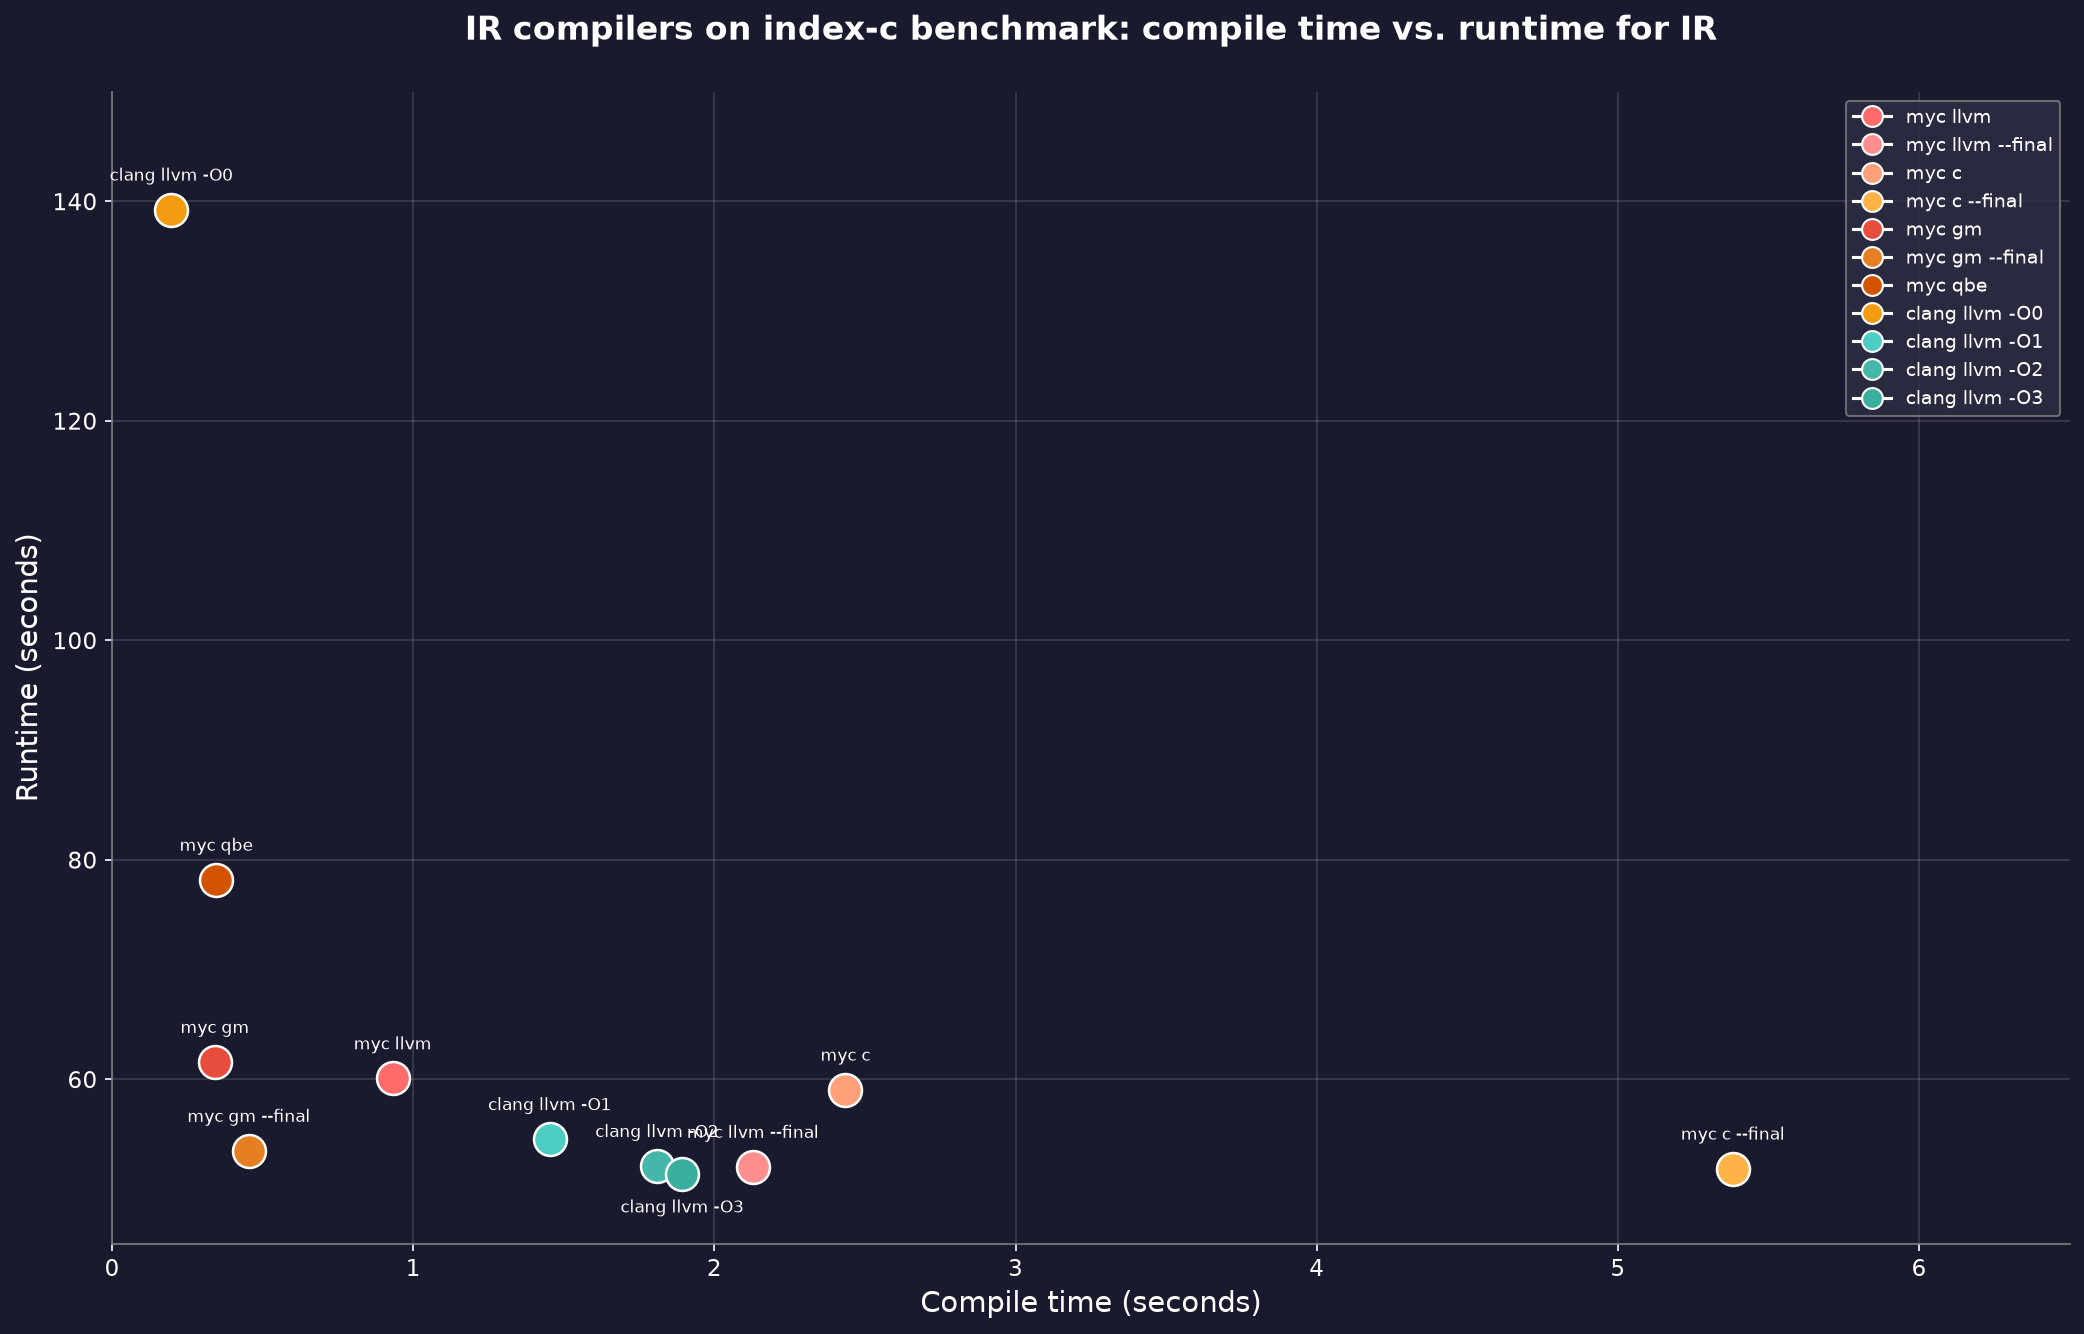
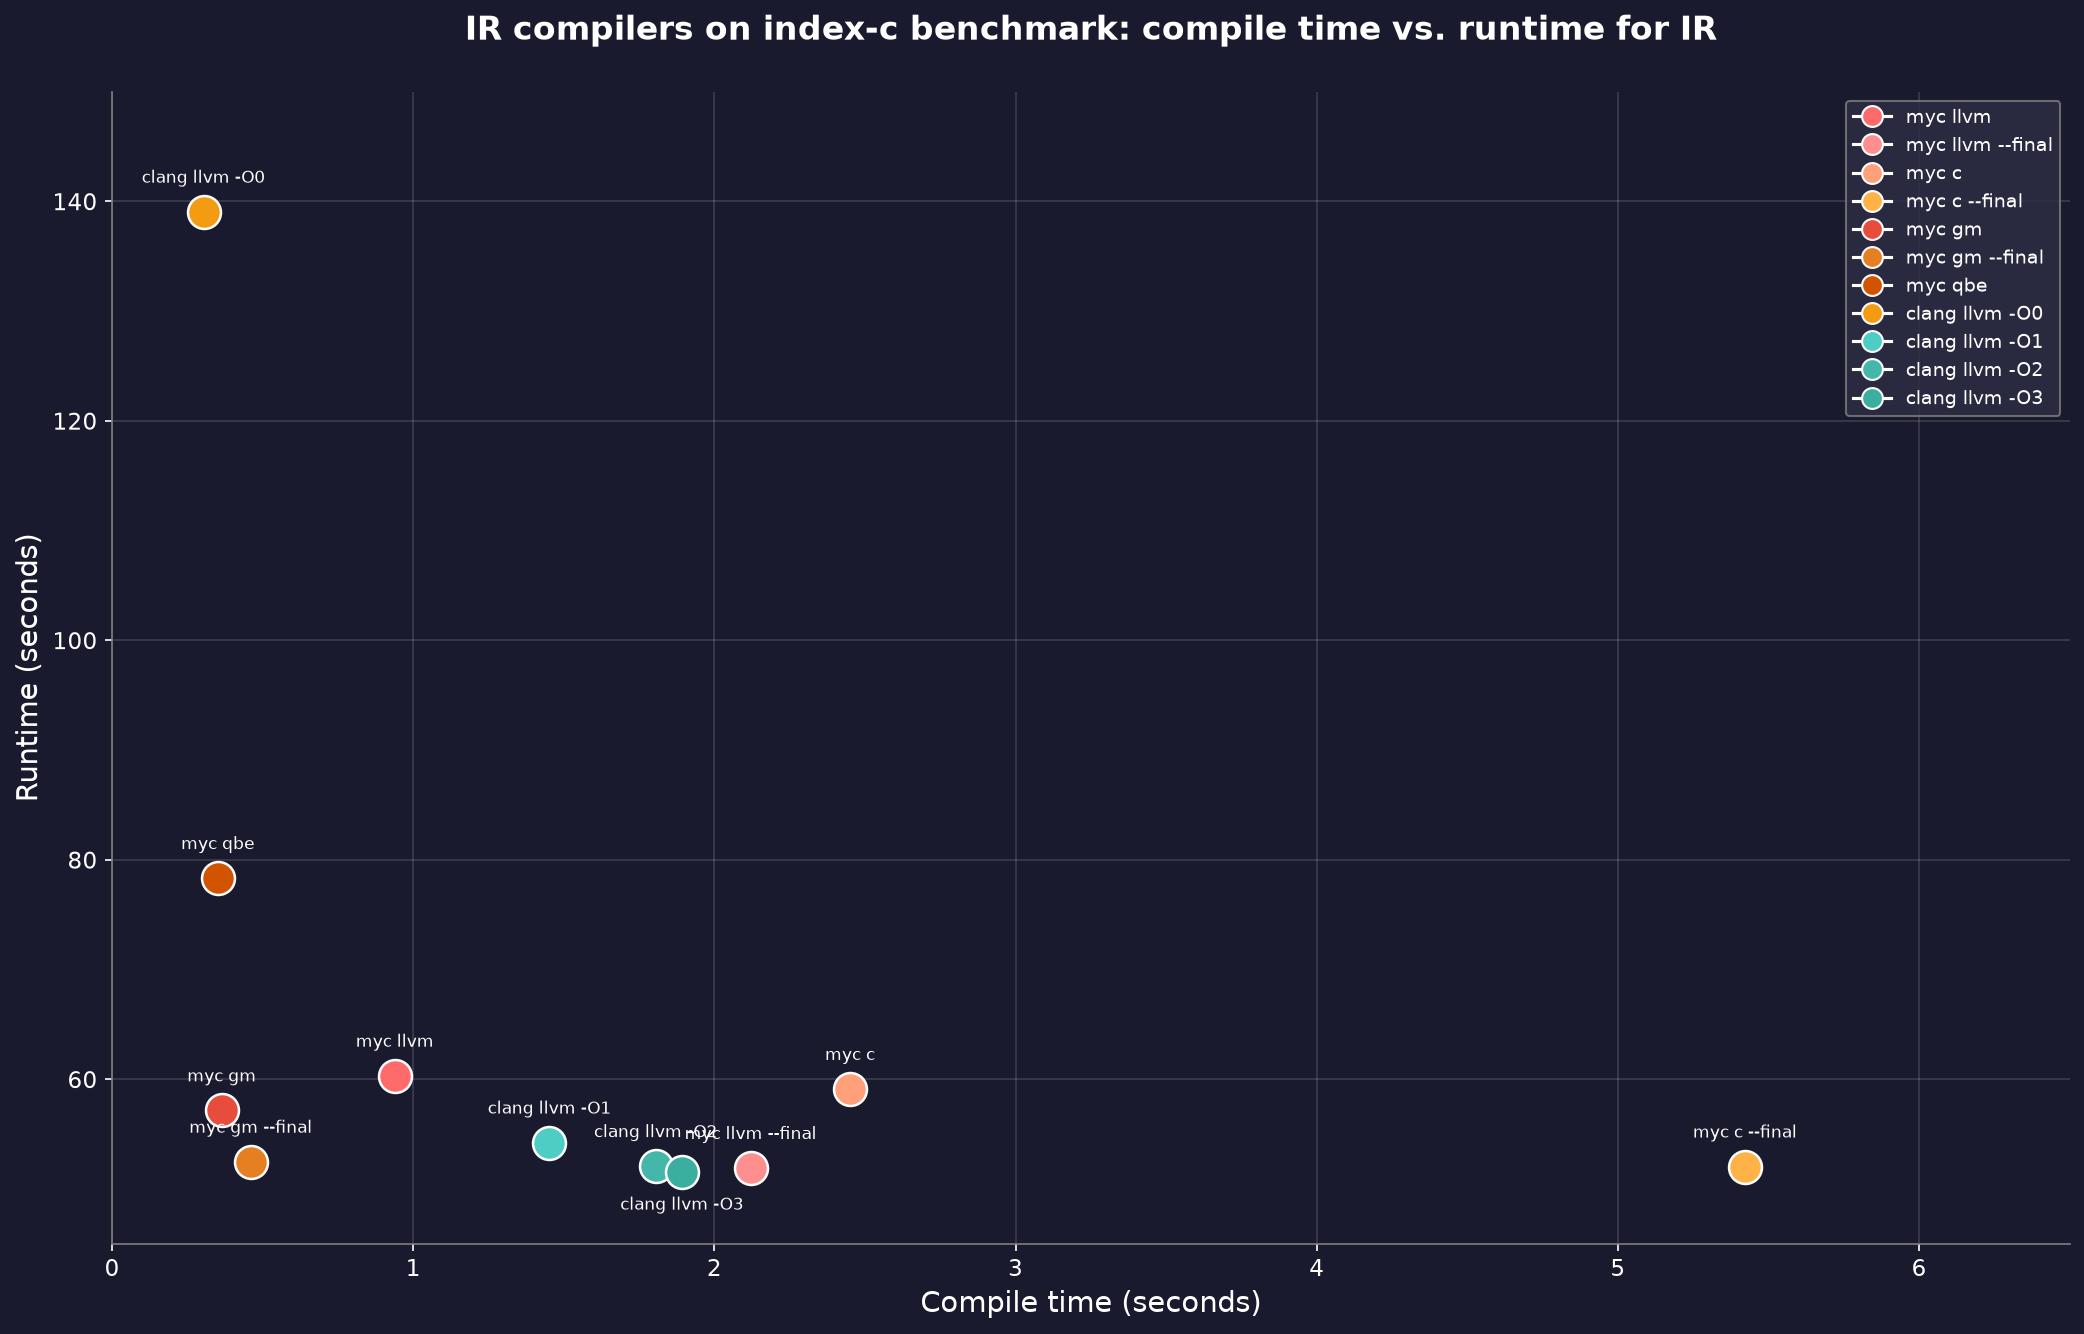
update results

diff --git a/plot1.py b/plot1.py
@@ -4,22 +4,22 @@ from matplotlib.lines import Line2D
 markdown = """
 | Compiler | Backend | Flags | Compile (s) | Run (s) |
 |----------|---------|-------|-------------|---------|
-| mycc | llvm |  | 1.3861 | 60.1767 |
-| mycc | llvm | --final | 2.5244 | 51.9228 |
-| mycc | c |  | 2.8505 | 59.7757 |
-| mycc | c | --final | 5.8163 | 52.1159 |
-| mycc | gm |  | 0.768 | 61.326 |
-| mycc | gm | --final | 0.8727 | 53.3361 |
-| mycc | qbe |  | 0.7656 | 78.2328 |
-| clang | llvm | -O0 | 0.3439 | 142.5666 |
-| clang | llvm | -O1 | 1.6629 | 53.9996 |
-| clang | llvm | -O2 | 2.0166 | 51.156 |
-| clang | llvm | -O3 | 2.0844 | 51.0058 |
-| gcc | - | -O0 | 0.8005 | 132.4786 |
-| gcc | - | -O1 | 1.8718 | 57.3093 |
-| gcc | - | -O2 | 3.6296 | 52.2206 |
-| gcc | - | -O3 | 4.7703 | 50.6755 |
-| cproc | qbe |  | 0.2044 | 88.8468 |
+| mycc | llvm |  | 1.5451 | 60.1436 |
+| mycc | llvm | --final | 2.5695 | 51.9172 |
+| mycc | c |  | 2.9886 | 59.2757 |
+| mycc | c | --final | 5.8647 | 52.2412 |
+| mycc | gm |  | 0.8156 | 57.2475 |
+| mycc | gm | --final | 0.8767 | 52.5471 |
+| mycc | qbe |  | 0.8204 | 78.4971 |
+| clang | llvm | -O0 | 0.4201 | 142.773 |
+| clang | llvm | -O1 | 1.6904 | 54.1242 |
+| clang | llvm | -O2 | 2.0602 | 51.0166 |
+| clang | llvm | -O3 | 2.085 | 51.5749 |
+| gcc | - | -O0 | 0.8041 | 132.5994 |
+| gcc | - | -O1 | 1.9168 | 57.5374 |
+| gcc | - | -O2 | 3.6483 | 52.2808 |
+| gcc | - | -O3 | 4.8191 | 50.6065 |
+| cproc | qbe |  | 0.2372 | 88.7688 |
 """
 
 lines = markdown.strip().split('\n')

diff --git a/plot2.py b/plot2.py
@@ -3,18 +3,18 @@ from matplotlib.lines import Line2D
 
 markdown = """
 | Compiler | Backend | Flags | Compile (s) | Run (s) |
-|----------|---------|-------|-------------|---------|--------|
-| myc | llvm |  | 0.932 | 60.0968 |
-| myc | llvm | --final | 2.1277 | 52.0302 |
-| myc | c |  | 2.4351 | 59.0626 |
-| myc | c | --final | 5.3817 | 51.8694 |
-| myc | gm |  | 0.3415 | 61.5946 |
-| myc | gm | --final | 0.4541 | 53.4905 |
-| myc | qbe |  | 0.3453 | 78.1928 |
-| clang | llvm | -O0 | 0.197 | 139.2588 |
-| clang | llvm | -O1 | 1.4534 | 54.5575 |
-| clang | llvm | -O2 | 1.8094 | 52.109 |
-| clang | llvm | -O3 | 1.8932 | 51.3404 |
+|----------|---------|-------|-------------|---------|
+| myc | llvm |  | 0.9388 | 60.3338 |
+| myc | llvm | --final | 2.1202 | 51.9244 |
+| myc | c |  | 2.4502 | 59.1295 |
+| myc | c | --final | 5.4218 | 52.0605 |
+| myc | gm |  | 0.3641 | 57.1806 |
+| myc | gm | --final | 0.4604 | 52.4984 |
+| myc | qbe |  | 0.3503 | 78.3457 |
+| clang | llvm | -O0 | 0.3036 | 139.0683 |
+| clang | llvm | -O1 | 1.4524 | 54.2433 |
+| clang | llvm | -O2 | 1.8051 | 52.0981 |
+| clang | llvm | -O3 | 1.8923 | 51.5936 |
 """
 
 lines = markdown.strip().split('\n')

diff --git a/3.brainfuck-compiler/run.rb b/3.brainfuck-compiler/run.rb
@@ -75,7 +75,7 @@ CFG = {
 	},
 	"gm": {
 		"ir": "lowir",
-		"compiler": "cppgm",
+		"compiler": "cppgm(-O3)",
 		"src": "mandel.lowir",
 		"cmd": "bash -c '#{GM} -O3 -c mandel.lowir -o mandel_gm.o; cc mandel_gm.o -o ./bin_bf_gm'",
 		"run": "./bin_bf_gm",

diff --git a/README.md b/README.md
@@ -17,6 +17,16 @@ Show versions:
 docker run --rm myc-benchmarks sh -c 'for t in clang gcc cproc qbe cppgm myc-llvm myc-qbe myc-c myc-gm; do printf "%s: " "$t"; command -v "$t" >/dev/null 2>&1 && { "$t" --version 2>&1 | head -n1 || "$t" -v 2>&1 | head -n1; } || echo "not found"; done'
 ```
 
+```
+clang: clang version 23.1.5
+gcc: gcc (GCC) 16.2.1 20260810
+cppgm: cppgm 0.9.6 (host configuration: g++)
+myc-llvm: myc 0.12.1-c154ee5 LLVM 23.1.5 (https://github.com/kostya/myc)
+myc-qbe: myc 0.12.1-c154ee5 QBE fab6d40 (https://github.com/kostya/myc)
+myc-c: myc 0.12.1-c154ee5 C(cc (GCC) 16.2.1 20260810) (https://github.com/kostya/myc)
+myc-gm: myc 0.12.1-c154ee5 GM v0.9.6 (https://github.com/kostya/myc)
+```
+
 # 1. C compilers on index-c: (clang, gcc, mycc, cproc)
 
 Running on [index-c](https://github.com/kostya/index-c) benchmark.
@@ -29,22 +39,22 @@ ruby run.rb
 
 | Compiler | Backend | Flags | Compile (s) | Run (s) |
 |----------|---------|-------|-------------|---------|
-| mycc | llvm |  | 1.3593 | 60.134 |
-| mycc | llvm | --final | 2.5393 | 52.0551 |
-| mycc | c |  | 2.8693 | 59.4511 |
-| mycc | c | --final | 5.8343 | 52.0524 |
-| mycc | gm |  | 0.8394 | 57.5891 |
-| mycc | gm | --final | 0.9276 | 52.6172 |
-| mycc | qbe |  | 0.7798 | 78.3651 |
-| clang | llvm | -O0 | 0.3459 | 142.2597 |
-| clang | llvm | -O1 | 1.6685 | 54.0844 |
-| clang | llvm | -O2 | 2.0338 | 51.1672 |
-| clang | llvm | -O3 | 2.0754 | 51.5966 |
-| gcc | - | -O0 | 0.8085 | 132.7673 |
-| gcc | - | -O1 | 1.8853 | 57.5418 |
-| gcc | - | -O2 | 3.6455 | 52.3248 |
-| gcc | - | -O3 | 4.7855 | 50.5958 |
-| cproc | qbe |  | 0.2056 | 88.9484 |
+| mycc | llvm |  | 1.5451 | 60.1436 |
+| mycc | llvm | --final | 2.5695 | 51.9172 |
+| mycc | c |  | 2.9886 | 59.2757 |
+| mycc | c | --final | 5.8647 | 52.2412 |
+| mycc | gm |  | 0.8156 | 57.2475 |
+| mycc | gm | --final | 0.8767 | 52.5471 |
+| mycc | qbe |  | 0.8204 | 78.4971 |
+| clang | llvm | -O0 | 0.4201 | 142.773 |
+| clang | llvm | -O1 | 1.6904 | 54.1242 |
+| clang | llvm | -O2 | 2.0602 | 51.0166 |
+| clang | llvm | -O3 | 2.085 | 51.5749 |
+| gcc | - | -O0 | 0.8041 | 132.5994 |
+| gcc | - | -O1 | 1.9168 | 57.5374 |
+| gcc | - | -O2 | 3.6483 | 52.2808 |
+| gcc | - | -O3 | 4.8191 | 50.6065 |
+| cproc | qbe |  | 0.2372 | 88.7688 |
 
 ![plot](plot1.png)
 
@@ -61,17 +71,17 @@ ruby run.rb
 
 | Compiler | Backend | Flags | Compile (s) | Run (s) |
 |----------|---------|-------|-------------|---------|
-| myc | llvm |  | 0.9413 | 60.4062 |
-| myc | llvm | --final | 2.1499 | 52.3026 |
-| myc | c |  | 2.4507 | 59.3027 |
-| myc | c | --final | 5.417 | 52.3337 |
-| myc | gm |  | 0.4055 | 57.3465 |
-| myc | gm | --final | 0.4992 | 52.6121 |
-| myc | qbe |  | 0.352 | 78.2827 |
-| clang | llvm | -O0 | 0.1984 | 140.4707 |
-| clang | llvm | -O1 | 1.464 | 54.4958 |
-| clang | llvm | -O2 | 1.8194 | 52.3311 |
-| clang | llvm | -O3 | 1.9003 | 51.9817 |
+| myc | llvm |  | 0.9388 | 60.3338 |
+| myc | llvm | --final | 2.1202 | 51.9244 |
+| myc | c |  | 2.4502 | 59.1295 |
+| myc | c | --final | 5.4218 | 52.0605 |
+| myc | gm |  | 0.3641 | 57.1806 |
+| myc | gm | --final | 0.4604 | 52.4984 |
+| myc | qbe |  | 0.3503 | 78.3457 |
+| clang | llvm | -O0 | 0.3036 | 139.0683 |
+| clang | llvm | -O1 | 1.4524 | 54.2433 |
+| clang | llvm | -O2 | 1.8051 | 52.0981 |
+| clang | llvm | -O3 | 1.8923 | 51.5936 |
 
 ![plot](plot2.png)
 
@@ -87,17 +97,17 @@ ruby run.rb
 
 | IR | Compiler | IR size, Kb | Compile time | Run time |
 |:---------:|:---------:|:---------:|:---------:|:---------:|
-| llvm-ll | clang(-O3) | 1529 | 1177ms | 637ms |
-| myc | myc-llvm(default) | 486 | 222ms | 684ms |
-| myc | myc-llvm(final) | 486 | 1173ms | 623ms |
-| qbe-ssa | qbe + clang(as+linker) | 345 | 82ms + 49ms | 808ms |
-| myc | myc-qbe(default) | 486 | 502ms | 852ms |
-| c | clang(-O3) | 128 | 1272ms | 625ms |
-| myc | myc-c(default) | 486 | 974ms | 673ms |
-| myc | myc-c(final) | 486 | 1370ms | 665ms |
-| lowir | cppgm | 1157 | 152ms | 651ms |
-| myc | myc-gm(default) | 486 | 159ms | 681ms |
-| myc | myc-gm(final) | 486 | 206ms | 673ms |
+| llvm-ll | clang(-O3) | 1529 | 1170ms | 636ms |
+| myc | myc-llvm(default) | 486 | 218ms | 682ms |
+| myc | myc-llvm(final) | 486 | 1161ms | 623ms |
+| qbe-ssa | qbe + clang(as+linker) | 345 | 79ms + 53ms | 808ms |
+| myc | myc-qbe(default) | 486 | 496ms | 851ms |
+| c | clang(-O3) | 128 | 1263ms | 625ms |
+| myc | myc-c(default) | 486 | 965ms | 671ms |
+| myc | myc-c(final) | 486 | 1362ms | 665ms |
+| lowir | cppgm(-O3) | 1157 | 150ms | 649ms |
+| myc | myc-gm(default) | 486 | 125ms | 682ms |
+| myc | myc-gm(final) | 486 | 173ms | 673ms |
 
 # 4. Myc examples: (myc)
 
@@ -109,46 +119,46 @@ ruby run.rb
 
 | Benchmark | Backend | Compile | Run |
 |:----------|:-------:|--------:|----:|
-| mandel.myc | myc-llvm | 232ms | 683ms |
-| | myc-qbe | 508ms | 852ms |
-| | myc-c | 1000ms | 675ms |
-| | myc-gm | 163ms | 682ms |
-| | myc-llvm-final | 1177ms | 629ms |
-| | myc-qbe-final | 545ms | 852ms |
-| | myc-c-final | 1390ms | 667ms |
-| | myc-gm-final | 209ms | 673ms |
-| bf.myc | myc-llvm | 44ms | 2430ms |
-| | myc-qbe | 64ms | 2689ms |
-| | myc-c | 104ms | 1792ms |
-| | myc-gm | 30ms | 6071ms |
-| | myc-llvm-final | 54ms | 2546ms |
-| | myc-qbe-final | 31ms | 2715ms |
-| | myc-c-final | 175ms | 1728ms |
-| | myc-gm-final | 33ms | 1585ms |
-| loop.myc | myc-llvm | 38ms | 201ms |
-| | myc-qbe | 29ms | 2438ms |
-| | myc-c | 49ms | 148ms |
-| | myc-gm | 27ms | 330ms |
-| | myc-llvm-final | 42ms | 190ms |
-| | myc-qbe-final | 29ms | 2438ms |
-| | myc-c-final | 57ms | 94ms |
-| | myc-gm-final | 28ms | 323ms |
-| loop.c | myc-llvm | 74ms | 201ms |
-| | myc-qbe | 74ms | 2438ms |
-| | myc-c | 91ms | 143ms |
-| | myc-gm | 73ms | 352ms |
-| | myc-llvm-final | 74ms | 199ms |
-| | myc-qbe-final | 74ms | 218ms |
-| | myc-c-final | 74ms | 200ms |
-| | myc-gm-final | 74ms | 200ms |
-| sieve.c | myc-llvm | 89ms | 293ms |
-| | myc-qbe | 87ms | 296ms |
-| | myc-c | 110ms | 290ms |
-| | myc-gm | 86ms | 302ms |
-| | myc-llvm-final | 87ms | 293ms |
-| | myc-qbe-final | 87ms | 290ms |
-| | myc-c-final | 88ms | 291ms |
-| | myc-gm-final | 88ms | 290ms |
+| mandel.myc | myc-llvm | 229ms | 684ms |
+| | myc-qbe | 502ms | 852ms |
+| | myc-c | 1099ms | 672ms |
+| | myc-gm | 136ms | 682ms |
+| | myc-llvm-final | 1170ms | 621ms |
+| | myc-qbe-final | 503ms | 852ms |
+| | myc-c-final | 1388ms | 665ms |
+| | myc-gm-final | 180ms | 673ms |
+| bf.myc | myc-llvm | 109ms | 2420ms |
+| | myc-qbe | 31ms | 2696ms |
+| | myc-c | 104ms | 1788ms |
+| | myc-gm | 29ms | 6070ms |
+| | myc-llvm-final | 55ms | 2626ms |
+| | myc-qbe-final | 32ms | 2688ms |
+| | myc-c-final | 176ms | 1113ms |
+| | myc-gm-final | 32ms | 1596ms |
+| loop.myc | myc-llvm | 76ms | 201ms |
+| | myc-qbe | 29ms | 2440ms |
+| | myc-c | 81ms | 159ms |
+| | myc-gm | 26ms | 327ms |
+| | myc-llvm-final | 42ms | 195ms |
+| | myc-qbe-final | 29ms | 2437ms |
+| | myc-c-final | 90ms | 117ms |
+| | myc-gm-final | 27ms | 316ms |
+| loop.c | myc-llvm | 76ms | 200ms |
+| | myc-qbe | 76ms | 2437ms |
+| | myc-c | 95ms | 145ms |
+| | myc-gm | 72ms | 321ms |
+| | myc-llvm-final | 75ms | 200ms |
+| | myc-qbe-final | 76ms | 217ms |
+| | myc-c-final | 77ms | 199ms |
+| | myc-gm-final | 76ms | 199ms |
+| sieve.c | myc-llvm | 128ms | 288ms |
+| | myc-qbe | 88ms | 289ms |
+| | myc-c | 112ms | 287ms |
+| | myc-gm | 85ms | 295ms |
+| | myc-llvm-final | 90ms | 283ms |
+| | myc-qbe-final | 90ms | 285ms |
+| | myc-c-final | 90ms | 285ms |
+| | myc-gm-final | 90ms | 285ms |
 
 # 5. Myc-GM vs Clang in index-c. Detailed.
 
@@ -160,55 +170,55 @@ ruby run.rb
 
 | # | test | myc-gm --final | clang -O3 | Δ (s) | slowdown (%) | status |
 |---|---|---|---|---|---|---|
-| 1 | Etc::GameOfLife | 1.412 | 1.078 | +0.334 | +31.0% | OK |
-| 2 | Compress::HuffDecode | 0.641 | 0.491 | +0.150 | +30.5% | OK |
-| 3 | Etc::TextRaytracer | 1.265 | 0.977 | +0.288 | +29.5% | OK |
-| 4 | Etc::NeuralNet | 1.224 | 0.996 | +0.228 | +22.9% | OK |
-| 5 | Compress::BWTEncode | 1.289 | 1.061 | +0.228 | +21.5% | OK |
-| 6 | Distance::NGram | 1.184 | 1.025 | +0.159 | +15.5% | OK |
-| 7 | Template::Parse | 1.174 | 1.032 | +0.142 | +13.8% | OK |
-| 8 | Distance::Jaro | 1.051 | 0.955 | +0.096 | +10.1% | OK |
-| 9 | CLBG::Spectralnorm | 1.117 | 1.016 | +0.101 | +9.9% | OK |
-| 10 | Maze::AStar | 1.159 | 1.058 | +0.101 | +9.5% | OK |
-| 11 | Compress::LZWEncode | 1.293 | 1.188 | +0.105 | +8.8% | OK |
-| 12 | Sort::Quick | 1.076 | 0.991 | +0.085 | +8.6% | OK |
-| 13 | Maze::BFS | 1.119 | 1.036 | +0.083 | +8.0% | OK |
-| 14 | Graph::BFS | 1.046 | 0.976 | +0.070 | +7.2% | OK |
-| 15 | Json::ParseMapping | 1.048 | 0.984 | +0.064 | +6.5% | OK |
-| 16 | Json::ParseDom | 1.069 | 1.008 | +0.061 | +6.1% | OK |
-| 17 | Compress::LZWDecode | 1.124 | 1.061 | +0.063 | +5.9% | OK |
-| 18 | Graph::DFS | 1.021 | 0.966 | +0.055 | +5.7% | OK |
-| 19 | Sort::Merge | 0.818 | 0.781 | +0.037 | +4.7% | OK |
-| 20 | Base64::Decode | 1.102 | 1.067 | +0.035 | +3.3% | OK |
-| 21 | Sort::Self | 1.110 | 1.076 | +0.034 | +3.2% | OK |
-| 22 | Brainfuck::Array | 1.355 | 1.315 | +0.040 | +3.0% | OK |
-| 23 | Compress::ArithDecode | 0.995 | 0.969 | +0.026 | +2.7% | OK |
-| 24 | Maze::Generator | 1.047 | 1.022 | +0.025 | +2.4% | OK |
-| 25 | Calculator::Ast | 1.014 | 0.992 | +0.022 | +2.2% | OK |
-| 26 | Compress::ArithEncode | 0.974 | 0.954 | +0.020 | +2.1% | OK |
-| 27 | Calculator::Interpreter | 1.084 | 1.062 | +0.022 | +2.1% | OK |
-| 28 | CLBG::Mandelbrot | 1.061 | 1.040 | +0.021 | +2.0% | OK |
-| 29 | Etc::CacheSimulation | 1.019 | 1.002 | +0.017 | +1.7% | OK |
-| 30 | Etc::Words | 1.048 | 1.036 | +0.012 | +1.2% | OK |
-| 31 | Template::Regex | 1.104 | 1.093 | +0.011 | +1.0% | OK |
-| 32 | Matmul::T4 | 1.056 | 1.053 | +0.003 | +0.3% | OK |
-| 33 | Matmul::Single | 1.039 | 1.039 | +0.000 | +0.0% | OK |
-| 34 | Graph::AStar | 0.830 | 0.831 | -0.001 | -0.1% | OK |
-| 35 | Matmul::T8 | 0.996 | 0.998 | -0.002 | -0.2% | OK |
-| 36 | Matmul::T16 | 0.989 | 0.998 | -0.009 | -0.9% | OK |
-| 37 | Json::Generate | 0.963 | 0.982 | -0.019 | -1.9% | OK |
-| 38 | Compress::BWTDecode | 1.038 | 1.068 | -0.030 | -2.8% | OK |
-| 39 | Base64::Encode | 1.004 | 1.039 | -0.035 | -3.4% | OK |
-| 40 | CLBG::Nbody | 1.015 | 1.052 | -0.037 | -3.5% | OK |
-| 41 | Hash::CRC32 | 0.216 | 0.225 | -0.009 | -4.0% | OK |
-| 42 | Etc::LogParser | 0.761 | 0.794 | -0.033 | -4.2% | OK |
-| 43 | Compress::HuffEncode | 1.253 | 1.314 | -0.061 | -4.6% | OK |
-| 44 | CSV::Parse | 0.939 | 0.993 | -0.054 | -5.4% | OK |
-| 45 | CLBG::Fannkuchredux | 1.026 | 1.088 | -0.062 | -5.7% | OK |
-| 46 | Brainfuck::Recursion | 1.452 | 1.568 | -0.116 | -7.4% | OK |
-| 47 | Binarytrees::Obj | 0.993 | 1.099 | -0.106 | -9.6% | OK |
-| 48 | Binarytrees::Arena | 1.647 | 1.898 | -0.251 | -13.2% | OK |
-| 49 | Etc::Sieve | 1.098 | 1.494 | -0.396 | -26.5% | OK |
-| 50 | Hash::SHA256 | 0.327 | 1.016 | -0.689 | -67.8% | OK |
+| 1 | Etc::GameOfLife | 1.396 | 1.057 | +0.339 | +32.1% | OK |
+| 2 | Etc::TextRaytracer | 1.263 | 0.976 | +0.287 | +29.4% | OK |
+| 3 | Compress::HuffDecode | 0.634 | 0.491 | +0.143 | +29.1% | OK |
+| 4 | Compress::BWTEncode | 1.275 | 1.037 | +0.238 | +23.0% | OK |
+| 5 | Etc::NeuralNet | 1.222 | 0.996 | +0.226 | +22.7% | OK |
+| 6 | Distance::NGram | 1.155 | 1.025 | +0.130 | +12.7% | OK |
+| 7 | Template::Parse | 1.150 | 1.023 | +0.127 | +12.4% | OK |
+| 8 | CLBG::Spectralnorm | 1.119 | 1.014 | +0.105 | +10.4% | OK |
+| 9 | Maze::AStar | 1.145 | 1.043 | +0.102 | +9.8% | OK |
+| 10 | Distance::Jaro | 1.044 | 0.953 | +0.091 | +9.5% | OK |
+| 11 | Graph::BFS | 1.068 | 0.975 | +0.093 | +9.5% | OK |
+| 12 | Compress::LZWEncode | 1.288 | 1.184 | +0.104 | +8.8% | OK |
+| 13 | Sort::Quick | 1.073 | 0.989 | +0.084 | +8.5% | OK |
+| 14 | Maze::BFS | 1.097 | 1.030 | +0.067 | +6.5% | OK |
+| 15 | Compress::LZWDecode | 1.118 | 1.050 | +0.068 | +6.5% | OK |
+| 16 | Graph::DFS | 1.017 | 0.962 | +0.055 | +5.7% | OK |
+| 17 | Json::ParseMapping | 1.042 | 0.987 | +0.055 | +5.6% | OK |
+| 18 | Json::ParseDom | 1.063 | 1.010 | +0.053 | +5.2% | OK |
+| 19 | Sort::Merge | 0.816 | 0.780 | +0.036 | +4.6% | OK |
+| 20 | Etc::CacheSimulation | 1.029 | 0.991 | +0.038 | +3.8% | OK |
+| 21 | Maze::Generator | 1.047 | 1.010 | +0.037 | +3.7% | OK |
+| 22 | Graph::AStar | 0.857 | 0.831 | +0.026 | +3.1% | OK |
+| 23 | Base64::Decode | 1.098 | 1.065 | +0.033 | +3.1% | OK |
+| 24 | Brainfuck::Array | 1.356 | 1.318 | +0.038 | +2.9% | OK |
+| 25 | Sort::Self | 1.109 | 1.082 | +0.027 | +2.5% | OK |
+| 26 | Matmul::T16 | 1.004 | 0.981 | +0.023 | +2.3% | OK |
+| 27 | CLBG::Mandelbrot | 1.060 | 1.040 | +0.020 | +1.9% | OK |
+| 28 | Calculator::Interpreter | 1.064 | 1.045 | +0.019 | +1.8% | OK |
+| 29 | Calculator::Ast | 1.017 | 1.003 | +0.014 | +1.4% | OK |
+| 30 | Etc::Words | 1.047 | 1.036 | +0.011 | +1.1% | OK |
+| 31 | Compress::ArithEncode | 0.963 | 0.954 | +0.009 | +0.9% | OK |
+| 32 | Compress::ArithDecode | 0.967 | 0.958 | +0.009 | +0.9% | OK |
+| 33 | Template::Regex | 1.091 | 1.090 | +0.001 | +0.1% | OK |
+| 34 | Matmul::Single | 1.039 | 1.039 | +0.000 | +0.0% | OK |
+| 35 | Matmul::T8 | 0.994 | 0.994 | +0.000 | +0.0% | OK |
+| 36 | CSV::Parse | 0.969 | 0.970 | -0.001 | -0.1% | OK |
+| 37 | Matmul::T4 | 1.052 | 1.054 | -0.002 | -0.2% | OK |
+| 38 | Compress::BWTDecode | 1.044 | 1.068 | -0.024 | -2.2% | OK |
+| 39 | Json::Generate | 0.948 | 0.976 | -0.028 | -2.9% | OK |
+| 40 | CLBG::Nbody | 1.015 | 1.051 | -0.036 | -3.4% | OK |
+| 41 | Base64::Encode | 1.002 | 1.038 | -0.036 | -3.5% | OK |
+| 42 | Hash::CRC32 | 0.216 | 0.225 | -0.009 | -4.0% | OK |
+| 43 | Compress::HuffEncode | 1.267 | 1.338 | -0.071 | -5.3% | OK |
+| 44 | CLBG::Fannkuchredux | 1.028 | 1.088 | -0.060 | -5.5% | OK |
+| 45 | Binarytrees::Arena | 1.597 | 1.707 | -0.110 | -6.4% | OK |
+| 46 | Brainfuck::Recursion | 1.467 | 1.569 | -0.102 | -6.5% | OK |
+| 47 | Etc::LogParser | 0.760 | 0.814 | -0.054 | -6.6% | OK |
+| 48 | Binarytrees::Obj | 0.988 | 1.075 | -0.087 | -8.1% | OK |
+| 49 | Etc::Sieve | 1.090 | 1.484 | -0.394 | -26.5% | OK |
+| 50 | Hash::SHA256 | 0.331 | 1.014 | -0.683 | -67.4% | OK |
 
-Summary: myc-gm=52.685s clang=51.857s diff=+0.828s (+1.6%)
+Summary: myc-gm=52.501s clang=51.490s diff=+1.011s (+2.0%)
